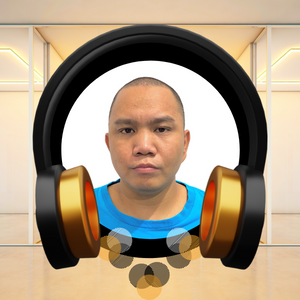
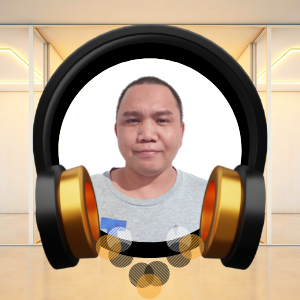
job hiring
job hiring

diff --git a/index.html b/index.html
@@ -104,8 +104,8 @@
 			<!-- <span class="blink"><h4>We are HIRING!!!</h4></span> -->
 			<!-- <span>We are looking for:</br> -->
 			<!-- <span class="btn btn-general btn-lg btn-job-position-1 mt-20">Sales Account Executive</span> -->
-			<!-- <span>Click button below to Apply</span></br> -->
-			<!-- <span class="btn btn-general btn-lg btn-job-position-1 mt-20">IT Support Technician</span> -->
+			<span>Click button below to Apply</span></br>
+			<span class="btn btn-general btn-lg btn-job-position-1 mt-20">IT Support Technician</span>
 			
 			
 			<!-- <span class="blink"><h4>Announcement!!!</h4></span> -->
@@ -716,10 +716,10 @@
 								<div class="active tab-pane fade" id="tab1primary">
 									<div class="text-center">
 										<h1>IT Support Technician</h1>
-										<h3>This position is currently closed</h3>
-										<!-- <a href="mailto:remotechiloilo@gmail.com?subject=New Applicant from PH for IT Support Technician&cc=larry_ferrett@sparco.com"> -->
-											<!-- <span class="btn btn-general spn-career-txt"><i class="fas fa-upload"></i> Submit Your Resume Here</span> -->
-										<!-- </a> -->
+										<!-- <h3>This position is currently closed</h3> -->
+										<a href="mailto:remotechiloilo@gmail.com?subject=New Applicant from PH for IT Support Technician&cc=larry_ferrett@sparco.com">
+											<span class="btn btn-general spn-career-txt"><i class="fas fa-upload"></i> Submit Your Resume Here</span>
+										</a>
 									</div>
 									<fieldset class="fieldset-career mt-20"> 
 										<legend class="fieldset-legend">General Information</legend>
@@ -736,7 +736,7 @@
 												</tr>
 												<tr>
 													<th scope="row"><i class="fas fa-check"></i></th>
-													<td><span>Starting Salary – PHP 20K -22K /MONTH</span></td>
+													<td><span>Starting Salary – PHP 22K -23K /MONTH</span></td>
 												</tr>
 												<tr>
 													<th scope="row"><i class="fas fa-check"></i></th>
@@ -886,17 +886,17 @@
 									<span><em>- IT Support Technician</em></span>
 								</div>
 							</div>
-							<div id="rMag-2" class="card" data-toggle="modal" data-target="#RemotechMagazine">
-								<img class="card-img-top" src="img/meet-bam.png" alt="Team">
+							<div id="rMag-2" class="card" data-toggle="modal" data-target="#RemotechMagazine-delete">
+								<img class="card-img-top" src="img/meet-me.png" alt="Team">
 								<div class="card-footer">
-									<span class="font-weight-bold">Bam</span>
+									<span class="font-weight-bold">Vacant Position</span>
 								</div>
 								<div class="card-footer">
 									<span><em>- IT Support Technician</em></span>
 								</div>
 							</div>
 							<div id="rMag-3" class="card" data-toggle="modal" data-target="#RemotechMagazine-delete">
-								<img class="card-img-top" src="img/meet-me.png" alt="Team">
+								<img class="card-img-top" src="img/meet-john.png" alt="Team">
 								<div class="card-footer">
 									<span class="font-weight-bold">John Rey</span>
 								</div>
@@ -905,7 +905,7 @@
 								</div>
 							</div>
 							<div id="rMag-4" class="card" data-toggle="modal" data-target="#RemotechMagazine-delete">
-								<img class="card-img-top" src="img/meet-me.png" alt="Team">
+								<img class="card-img-top" src="img/meet-jhopet.png" alt="Team">
 								<div class="card-footer">
 									<span class="font-weight-bold">Jhopet</span>
 								</div>
@@ -995,7 +995,7 @@
 									<span class="font-weight-bold">Mark</span>
 								</div>
 								<div class="card-footer">
-									<span><em>- Account Executive</em></span>
+									<span><em>- General Manager</em></span>
 								</div>
 							</div>
 						</div>	

diff --git a/js/jscript.js b/js/jscript.js
@@ -203,17 +203,17 @@
 		});
 		
 		
-		// Button for every Job Position
+		// Button at the top page for every Job Hiring
 		$(".btn-job-position-1").click(function() {
 			tabpanel1();
 			$('a[href="#tab1primary"]').click();
-			slideUpDown(document.getElementById('myCareers'), 800);
+			slideUpDown(document.getElementById('myCareers'), 100);
 			
 		});
 		$(".btn-job-position-2").click(function() {
 			tabpanel2();
 			$('a[href="#tab2primary"]').click();
-			slideUpDown(document.getElementById('myCareers'), 800);
+			slideUpDown(document.getElementById('myCareers'), 100);
 		});
 		
 		
